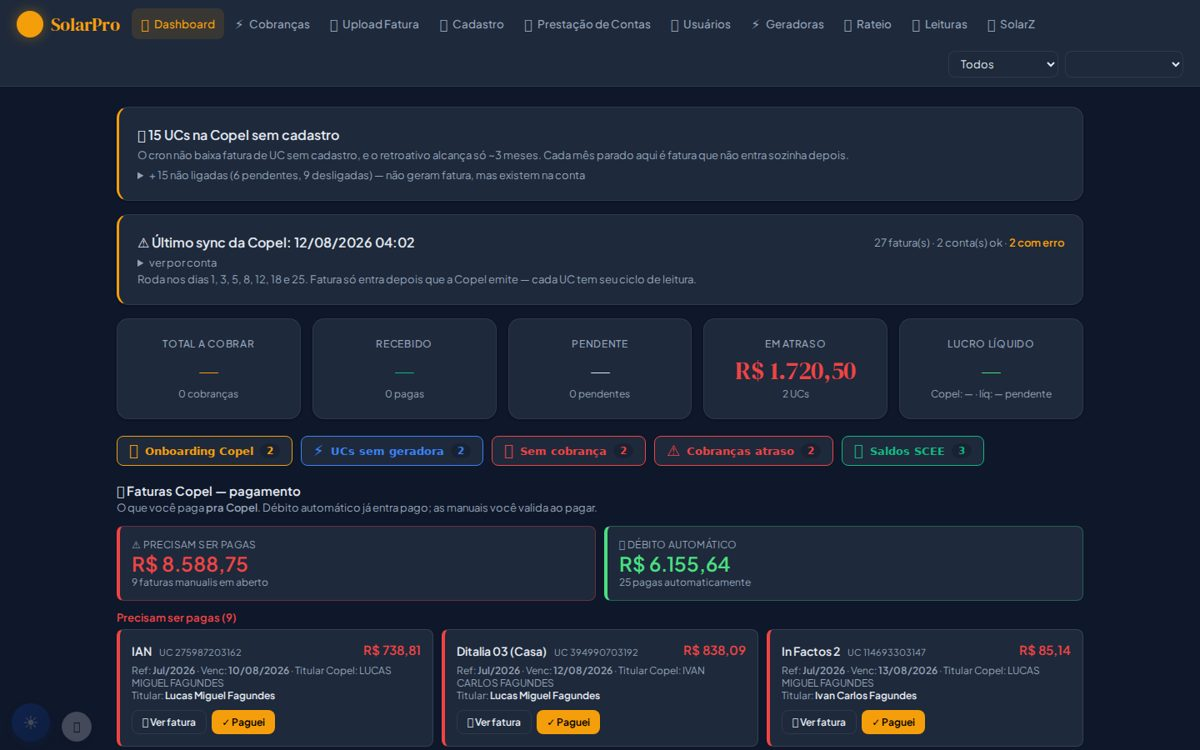
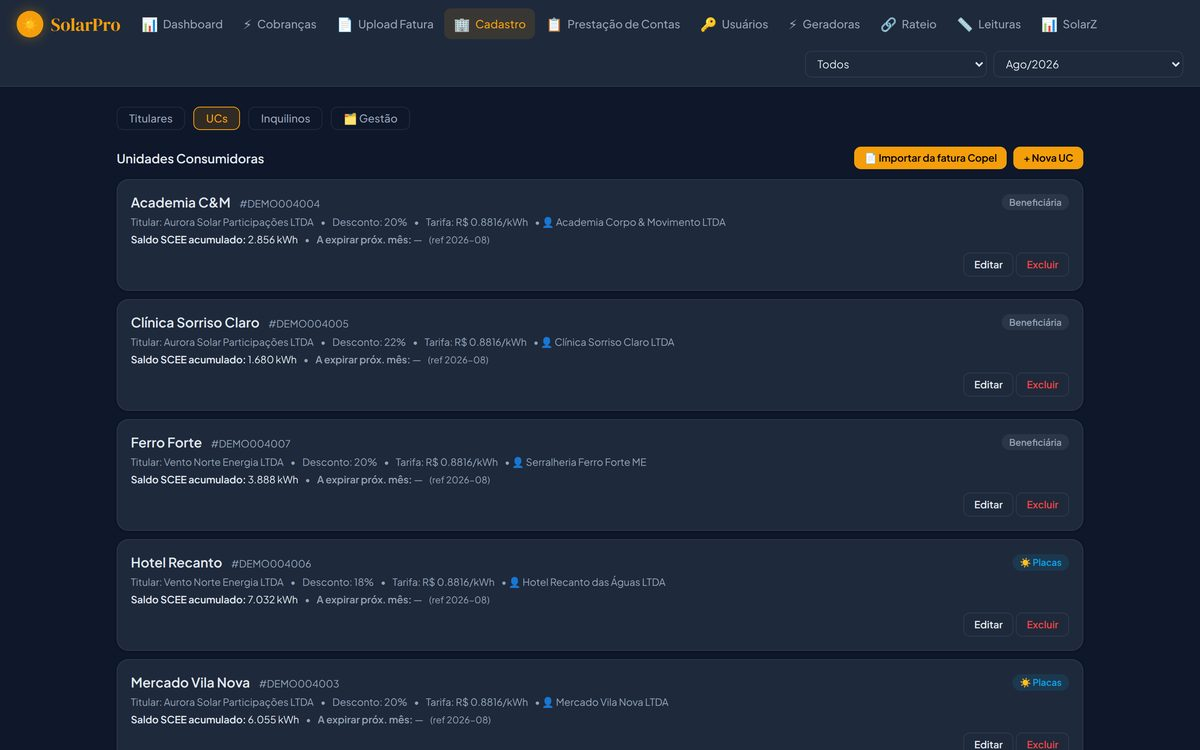
prints: AluguelPro e SolarPro com 4 telas cada, e fora o print que vazava dado real
As duas páginas tinham UMA tela cada contra cinco do SiloPro, porque as demos
abriam vazias nas telas internas — dava "Nenhuma cobrança encontrada". As demos
foram populadas (commits nos repos aluguelpro e solarpro) e as telas refeitas em
Chromium a partir de /demo, com o tour fechado antes de navegar.

AluguelPro ganha o painel do mês (previsto, recebido, atrasos, ocupação), as
cobranças do mês com pago / a vencer / atrasado com multa, e o repasse ao
proprietário com a taxa de administração descontada mês a mês.

SolarPro ganha o painel do integrador, as cobranças do mês por unidade (kWh,
fatura da Copel, total) e a prestação de contas com a comissão e o repasse ao
titular.

⚠ solarpro-0.jpg foi SUBSTITUÍDO, não por gosto: o print publicado mostrava o
bloco "Faturas Copel — precisam ser pagas" com três UCs REAIS do cliente — número
da UC (275987203162, 394990703192, 114693303147), apelido e o nome completo do
titular Copel — e ainda por cima com os cinco cartões do painel zerados. Estava no
ar em www.luqsys.com.br/solarpro e /p/solarpro. No lugar entrou a tela de
unidades consumidoras da demo, toda fictícia. (A causa raiz — blocos do painel
que rodam com bypass_rls e apareciam pro visitante da demo — foi fechada no repo
do solarpro.)

aluguelpro-1.jpg ficou como estava: é dado fictício, só mais magro que os novos.

Claude-Session: https://claude.ai/code/session_01Rx9YD3rgtoUjjsgeH53a8w

diff --git a/app/p/solarpro/page.tsx b/app/p/solarpro/page.tsx
@@ -134,6 +134,11 @@ export default function SolarProLanding() {
             "Sincronização automática das faturas novas",
             "Histórico por unidade consumidora",
           ],
+          print: {
+            arquivo: "/prints/solarpro-3.jpg",
+            legenda:
+              "A fatura já virou número: kWh do mês, tarifa, o que foi pra Copel e o total do cliente",
+          },
         },
         {
           icone: "💸",
@@ -147,6 +152,11 @@ export default function SolarProLanding() {
             "Ajuste manual pro mês em que a fatura vem torta",
             "Contas a receber do cliente no mesmo lugar",
           ],
+          print: {
+            arquivo: "/prints/solarpro-1.jpg",
+            legenda:
+              "Painel do mês: a cobrar, recebido, pendente e quem está em atraso",
+          },
         },
         {
           icone: "📊",
@@ -160,8 +170,9 @@ export default function SolarProLanding() {
             "Painel com os clientes e as usinas em uma tela",
           ],
           print: {
-            arquivo: "/prints/solarpro-0.jpg",
-            legenda: "Painel do integrador",
+            arquivo: "/prints/solarpro-4.jpg",
+            legenda:
+              "Lucro líquido do mês, a comissão de administração e o que sobra pra repassar a cada titular",
           },
         },
       ]}
@@ -269,7 +280,24 @@ export default function SolarProLanding() {
           r: "Não tem fidelidade nem multa: você cancela a assinatura no mesmo lugar em que assinou e o acesso vai até o fim do período pago. Se quiser levar o histórico dos seus clientes junto, chama no WhatsApp antes de cancelar que a gente separa os dados pra você.",
         },
       ]}
-      prints={[]}
+      prints={[
+        {
+          arquivo: "/prints/solarpro-1.jpg",
+          legenda: "Painel do integrador: a cobrar, recebido, em atraso e lucro do mês",
+        },
+        {
+          arquivo: "/prints/solarpro-3.jpg",
+          legenda: "Cobranças do mês — kWh, tarifa, fatura da Copel e total por unidade",
+        },
+        {
+          arquivo: "/prints/solarpro-0.jpg",
+          legenda: "Unidades consumidoras com desconto, tarifa e saldo de créditos",
+        },
+        {
+          arquivo: "/prints/solarpro-4.jpg",
+          legenda: "Prestação de contas: comissão de administração e repasse ao titular",
+        },
+      ]}
       fechamento={{
         titulo: "A instalação acaba. A conta chega todo mês.",
         texto:

diff --git a/app/p/aluguelpro/page.tsx b/app/p/aluguelpro/page.tsx
@@ -121,6 +121,11 @@ export default function AluguelProLanding() {
             "Antecipação com desconto pra quem paga adiantado",
             "Histórico financeiro imóvel por imóvel",
           ],
+          print: {
+            arquivo: "/prints/aluguelpro-3.jpg",
+            legenda:
+              "Cobranças do mês na mesma tela: pago, a vencer e atrasado com multa e juros já calculados",
+          },
         },
         {
           icone: "🤝",
@@ -134,6 +139,11 @@ export default function AluguelProLanding() {
             "Multi-proprietário e multi-imóvel na mesma carteira",
             "Prestação de contas com o histórico do que já foi repassado",
           ],
+          print: {
+            arquivo: "/prints/aluguelpro-4.jpg",
+            legenda:
+              "Repasse mês a mês: bruto, comissão descontada, líquido do proprietário e o que ainda está pendente",
+          },
         },
         {
           icone: "🔍",
@@ -161,9 +171,9 @@ export default function AluguelProLanding() {
             "Pipeline de propostas e cadastro de compradores",
           ],
           print: {
-            arquivo: "/prints/aluguelpro-1.jpg",
+            arquivo: "/prints/aluguelpro-2.jpg",
             legenda:
-              "No menu à esquerda: divulgação, pipeline de propostas, vistorias e apólices no mesmo sistema",
+              "O painel conta a vacância: 7 alugados, 1 vago — e quem vence nos próximos 7 dias",
           },
         },
         {
@@ -184,6 +194,18 @@ export default function AluguelProLanding() {
         {
           arquivo: "/prints/aluguelpro-1.jpg",
           legenda: "Contratos com período, aluguel e status — a tela onde o mês começa",
+        },
+        {
+          arquivo: "/prints/aluguelpro-2.jpg",
+          legenda: "Painel do mês: previsto, recebido, atrasos e taxa de ocupação",
+        },
+        {
+          arquivo: "/prints/aluguelpro-3.jpg",
+          legenda: "Cobranças do mês — pago, a vencer e atrasado, com multa e juros",
+        },
+        {
+          arquivo: "/prints/aluguelpro-4.jpg",
+          legenda: "Repasse ao proprietário com a taxa de administração descontada",
         },
       ]}
       paraQuem={[

diff --git a/app/solarpro/page.tsx b/app/solarpro/page.tsx
@@ -114,7 +114,10 @@ export default function SolarProPage() {
         },
       ]}
       prints={[
-        {arquivo: "/prints/solarpro-0.jpg", legenda: "Painel do integrador"},
+        {arquivo: "/prints/solarpro-1.jpg", legenda: "Painel do integrador: a cobrar, recebido, em atraso e lucro do mês"},
+        {arquivo: "/prints/solarpro-3.jpg", legenda: "Cobranças do mês — kWh, fatura da Copel e total por unidade"},
+        {arquivo: "/prints/solarpro-0.jpg", legenda: "Unidades consumidoras com desconto, tarifa e saldo de créditos"},
+        {arquivo: "/prints/solarpro-4.jpg", legenda: "Prestação de contas: comissão de administração e repasse ao titular"},
       ]}
       praQuem={[
         {icone:"⚡", titulo:"Integrador que instala e some", texto:"Vender o kit é fácil; o difícil é o pós, e é aí que o cliente cancela."},

diff --git a/app/aluguelpro/page.tsx b/app/aluguelpro/page.tsx
@@ -102,6 +102,9 @@ export default function AluguelProPage() {
       ]}
       prints={[
         {arquivo: "/prints/aluguelpro-1.jpg", legenda: "Contratos e reajustes"},
+        {arquivo: "/prints/aluguelpro-2.jpg", legenda: "Painel do mês: previsto, recebido, atrasos e ocupação"},
+        {arquivo: "/prints/aluguelpro-3.jpg", legenda: "Cobranças do mês — pago, a vencer e atrasado com multa"},
+        {arquivo: "/prints/aluguelpro-4.jpg", legenda: "Repasse ao proprietário com a taxa de administração descontada"},
       ]}
       praQuem={[
         {icone:"🏢", titulo:"Imobiliária pequena", texto:"Quem administra dezenas de imóveis sem equipe de cobrança."},
